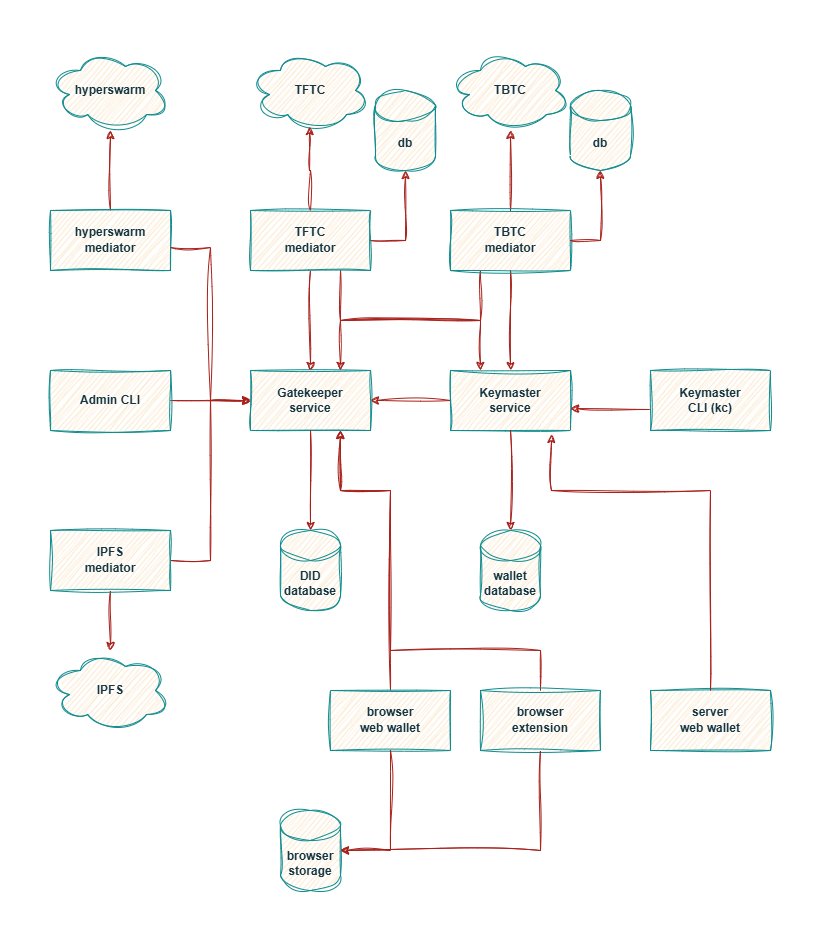
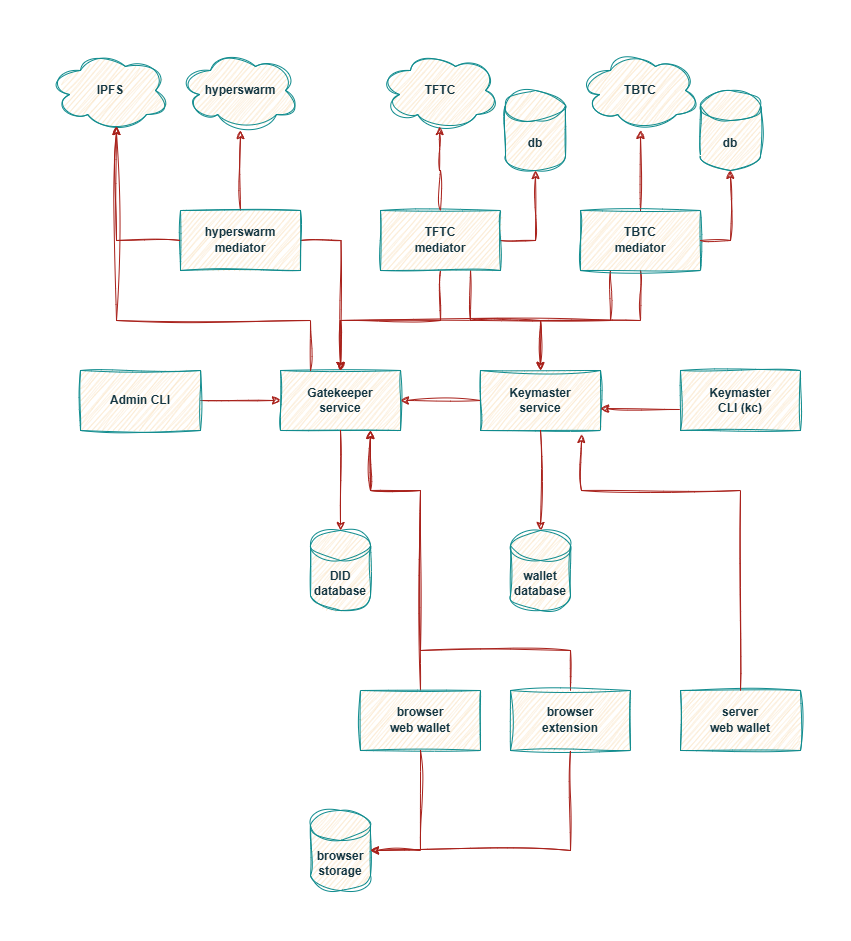
Updated docs

diff --git a/services/mediators/hyperswarm/src/config.js b/services/mediators/hyperswarm/src/config.js
@@ -6,7 +6,7 @@ const config = {
     debug: process.env.KC_DEBUG ? process.env.KC_DEBUG === 'true' : false,
     gatekeeperURL: process.env.KC_GATEKEEPER_URL || 'http://localhost:4224',
     keymasterURL: process.env.KC_KEYMASTER_URL || 'http://localhost:4226',
-    ipfsURL: process.env.KC_IPFS_URL || 'http://localhost:5001',
+    ipfsURL: process.env.KC_IPFS_URL || 'http://localhost:5001/api/v0',
     nodeID: process.env.KC_NODE_ID || '',
     nodeName: process.env.KC_NODE_NAME || 'anon',
     protocol: process.env.KC_MDIP_PROTOCOL || '/MDIP/v1.0-public',

diff --git a/services/mediators/hyperswarm/README.md b/services/mediators/hyperswarm/README.md
@@ -1,6 +1,6 @@
 # MDIP Hyperswarm mediator
 
-The Hyperswarm mediator is responsible for distributing unconfirmed MDIP operations to the network.
+The Hyperswarm mediator is responsible for distributing unconfirmed MDIP operations to the network and for organizing an IPFS peer network for file-sharing.
 
 When a node gets a new connection, it sends the connection a `sync` message and the connection replies with a series of `batch` messages containing all the operations in the connection's DID database. The nodes imports these operations into its Gatekeeper. The Gatekeeper will add any new operations it hasn't seen before, merge any operations it has already seen, and reject invalid operations.
 
@@ -12,6 +12,9 @@ When a node receives a `queue` message it will import the operations like during
 | variable                  | default                | description                   |
 | ------------------------- | ---------------------- | ----------------------------- |
 | `KC_GATEKEEPER_URL`       | http://localhost:4224  | MDIP gatekeeper service URL   |
+| `KC_KEYMASTER_URL`        | http://localhost:4226  | MDIP keymaster service URL    |
+| `KC_IPFS_URL`             | http://localhost:5001/api/v0  | IPFS RPC URL           |
+| `KC_NODE_ID       `       | (no default)           | Keymaster node agent name     |
 | `KC_NODE_NAME`            | anon                   | Human-readable name for the node |
 | `KC_MDIP_PROTOCOL`        | /MDIP/v1.0-public      | MDIP network topic to join    |
 | `KC_HYPR_EXPORT_INTERVAL` |  2                     | Seconds between export cycles |
